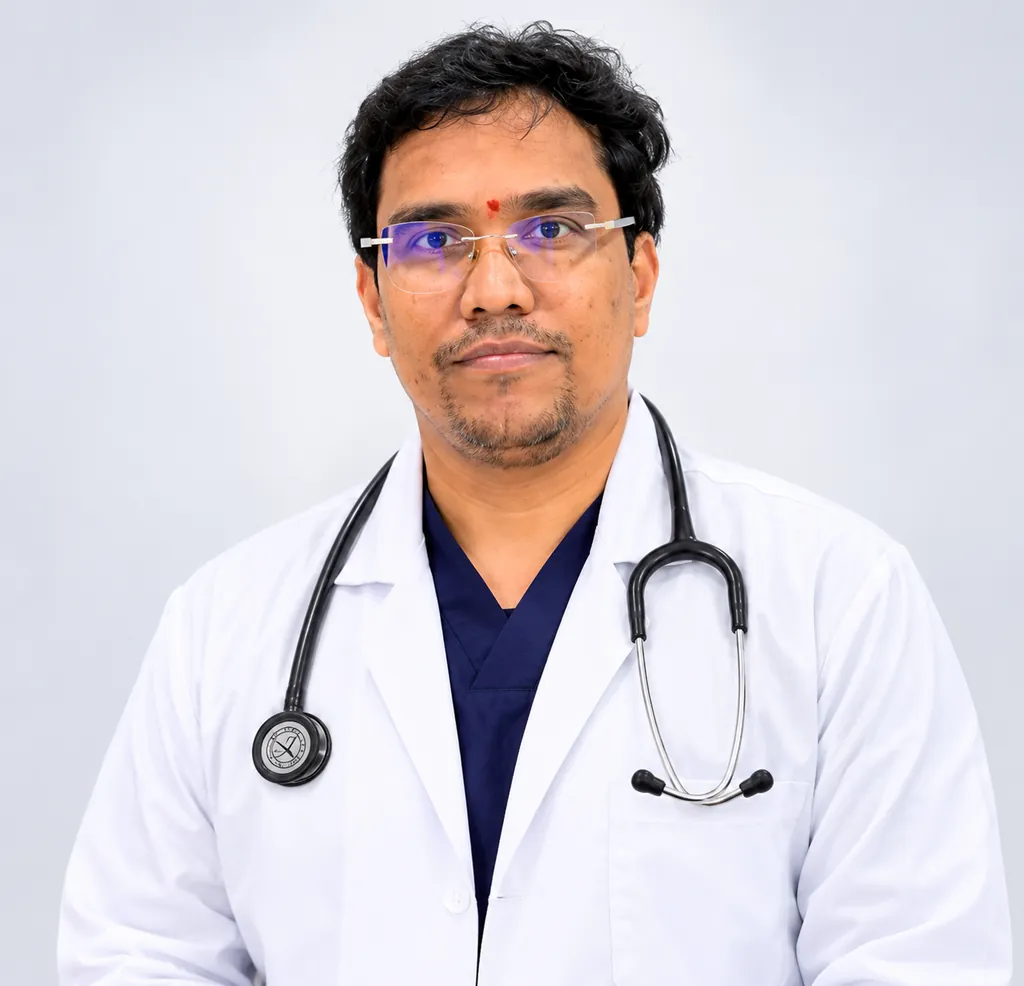
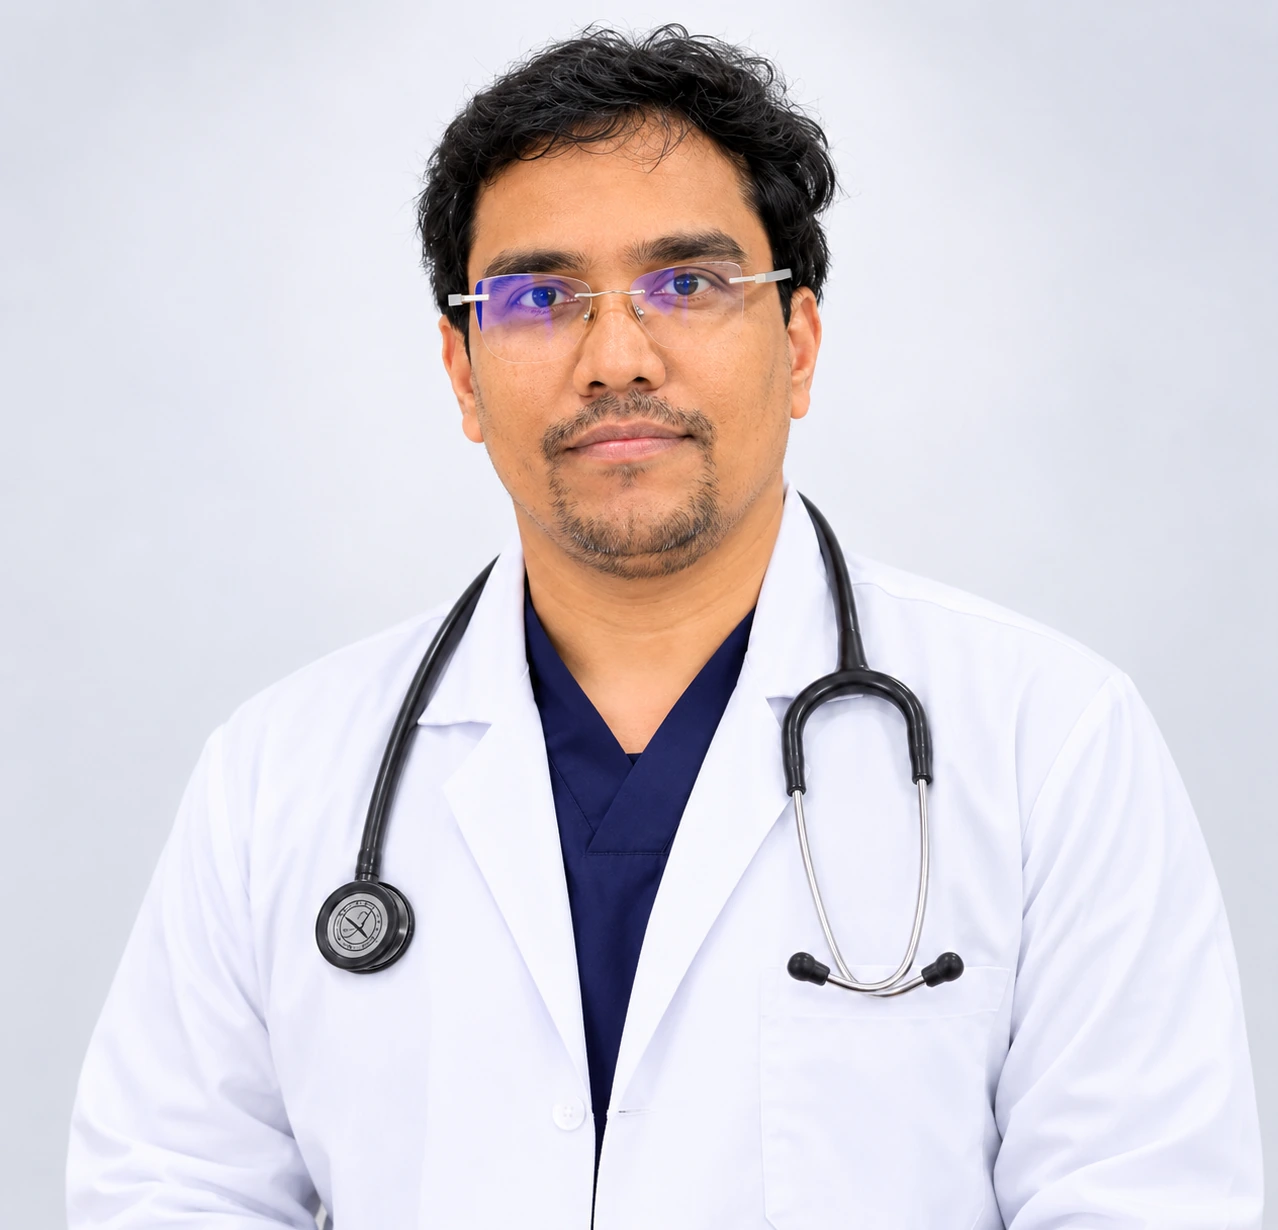
Replace homepage hero portrait

diff --git a/index.html b/index.html
@@ -139,7 +139,7 @@
           </div>
         </div>
         <div class="hero-media">
-          <img src="images/hero.webp" alt="Dr. Srikanth Nakka, Consultant Interventional Cardiologist" width="1024" height="986" loading="eager" fetchpriority="high" decoding="async">
+          <img src="images/hero.webp" alt="Dr. Srikanth Nakka, Consultant Interventional Cardiologist" width="1278" height="1230" loading="eager" fetchpriority="high" decoding="async">
         </div>
       </div>
       <div class="container hero-bottom">
